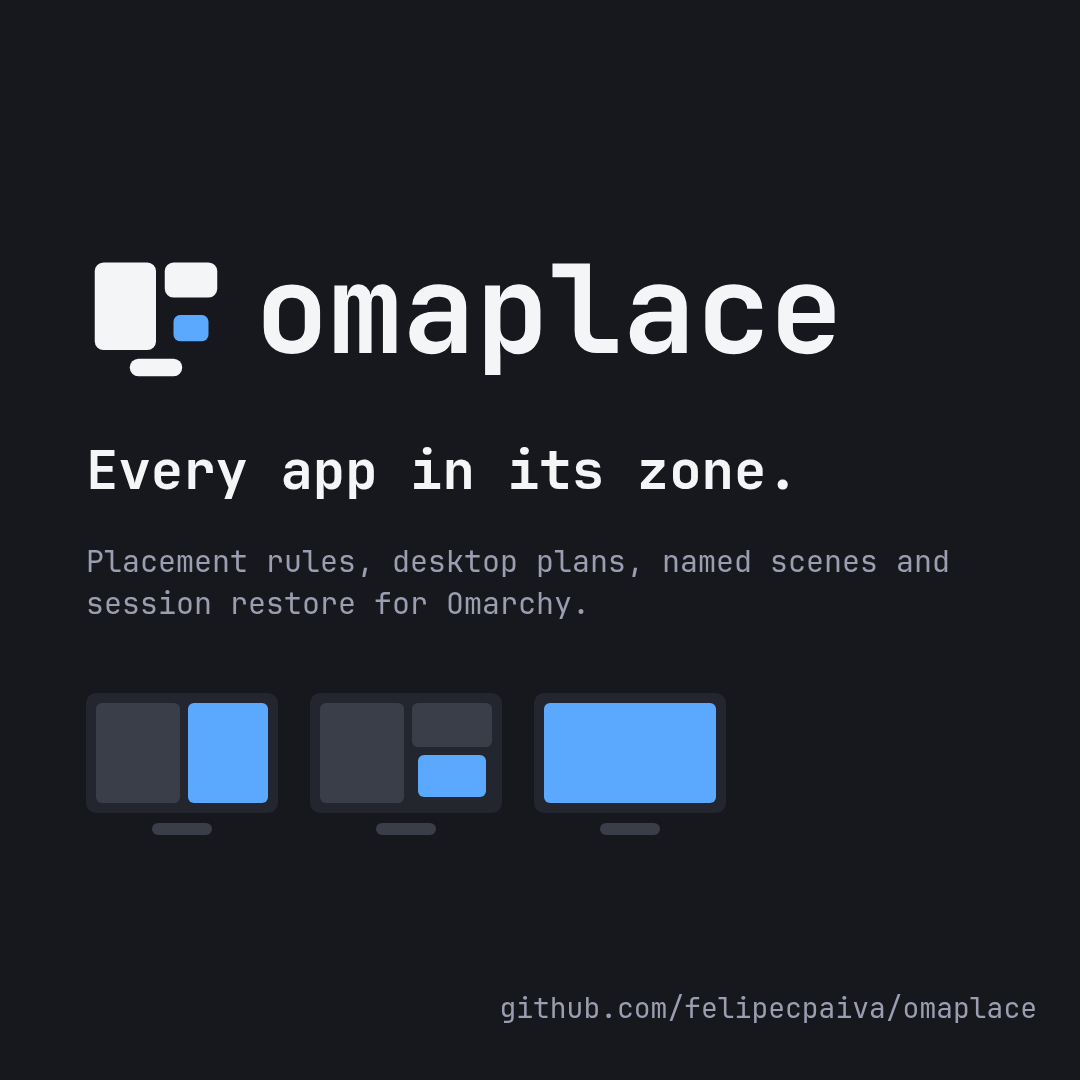
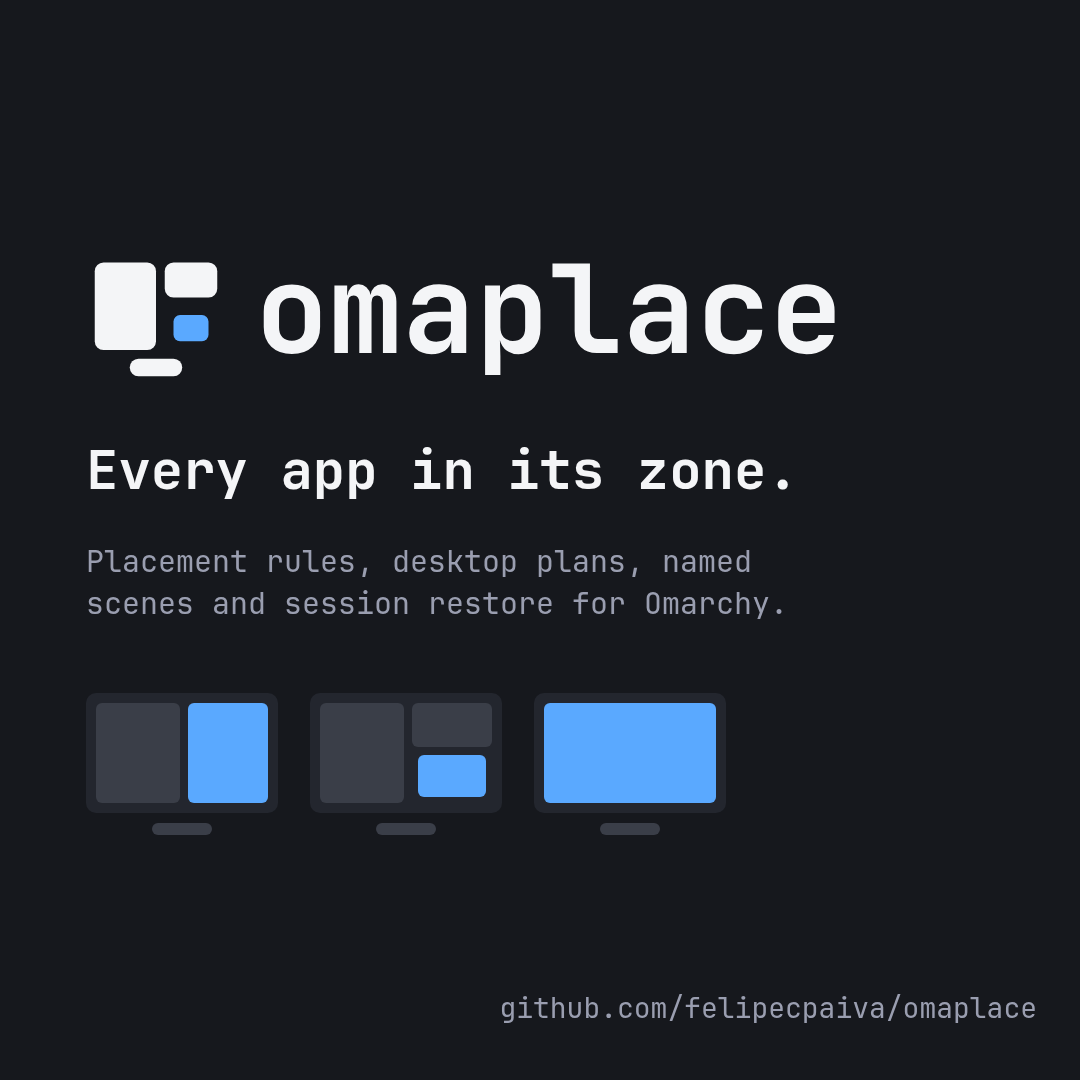
Branding: balance the sub line so card-x has no lone last word

Changed region(s): [[0.1222, 0.55, 0.7028, 0.5806], [0.7333, 0.4889, 0.7944, 0.55], [0.825, 0.5194, 0.8861, 0.55]]

diff --git a/branding/tools/social.py b/branding/tools/social.py
@@ -37,7 +37,7 @@ body{{width:{w}px;height:{h}px;background:{t['bg']};color:{t['fg']};font-family:
  display:flex;flex-direction:column;justify-content:center;padding:0 {int(w*0.08)}px;gap:{int(h*0.035)}px;overflow:hidden;position:relative}}
 .lk svg{{height:{int(h*k[0])}px;width:auto;display:block;margin-bottom:{int(h*0.015)}px}}
 .tag{{font-size:{int(h*k[1])}px;font-weight:700;line-height:1.2}}
-.sub{{font-size:{int(h*k[2])}px;color:{t['mute']};line-height:1.4;max-width:{int(w*0.84)}px}}
+.sub{{font-size:{int(h*k[2])}px;color:{t['mute']};line-height:1.4;max-width:{int(w*0.84)}px;text-wrap:balance}}
 .col{{display:flex;flex-direction:column;gap:{int(h*0.035)}px}} .art{{margin-top:{int(h*0.03)}px}} .art svg{{width:{int(min(w*0.6,640))}px;display:block}}
 .url{{position:absolute;right:{int(w*0.04)}px;bottom:{int(h*0.05)}px;font-size:{max(16,int(h*0.026))}px;color:{t['mute']}}}
 </style>{banner_css if layout=='banner' else ''}<div class="col"><div class="lk">{lk}</div><div class="tag">{TAG}</div><div class="sub">{SUB}</div></div>{art}{url}"""
